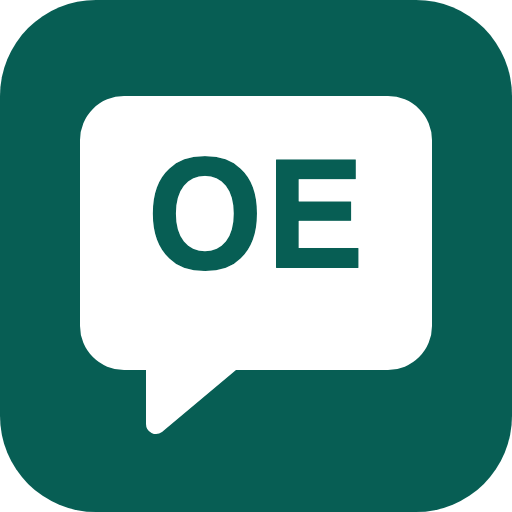
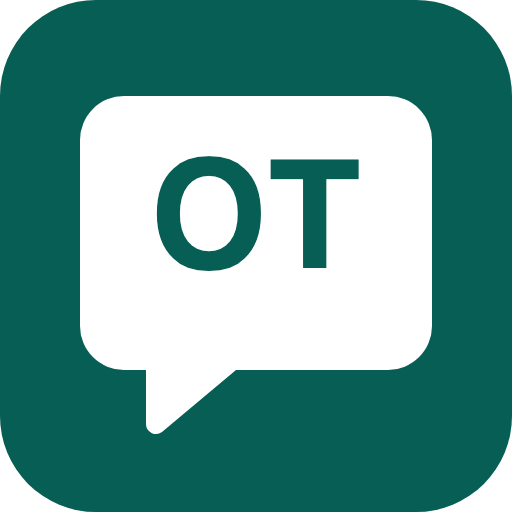
refactor: OpenEd pasa a llamarse OpenTeacher en UI, prompts, iconos y docs

diff --git a/app/aula/page.tsx b/app/aula/page.tsx
@@ -76,13 +76,13 @@ function Encabezado() {
   return (
     <header className="mb-8 border-b border-[#22323a] pb-6">
       <p className="mb-2 text-[12px] font-semibold uppercase tracking-[0.14em] text-[#4db6a4]">
-        OpenEd
+        OpenTeacher
       </p>
       <h1 className="text-[28px] font-semibold leading-tight tracking-tight sm:text-[34px]">
         Grabación de aula
       </h1>
       <p className="mt-2 max-w-[38rem] text-[15px] leading-relaxed text-[#9fb0b9]">
-        Graba la clase completa y OpenEd extrae las incidencias solo. La docente
+        Graba la clase completa y OpenTeacher extrae las incidencias solo. La docente
         no tiene que reportar nada ni acordarse de nada al final del día.
       </p>
     </header>
@@ -177,7 +177,7 @@ function Declaracion() {
   const filas = [
     ["Qué se graba", "El audio del aula durante la clase. Solo audio, nunca video ni imagen."],
     ["Para qué", "Detectar incidencias de convivencia y devolverle a la docente un reporte por alumno y por aula."],
-    ["Dónde queda", "En este dispositivo. El audio no se sube a ningún servidor de OpenEd."],
+    ["Dónde queda", "En este dispositivo. El audio no se sube a ningún servidor de OpenTeacher."],
     ["Cuánto se guarda", "Hasta que se borre. Hay un botón de borrar siempre a la mano y borra el audio junto con la sesión."],
     ["Quién lo ve", "La docente que graba y quien ella decida. Nadie más tiene acceso."],
     ["Qué NO se hace", "No se identifica a ningún estudiante por su voz ni se le pone nombre a quien habla."],

diff --git a/lib/mockData.ts b/lib/mockData.ts
@@ -1,5 +1,5 @@
 /**
- * Datos pre-generados para la demo de OpenEd.
+ * Datos pre-generados para la demo de OpenTeacher.
  *
  * PLAN B: el simulador de chat en app/page.tsx corre SOLO con esto.
  * Ni una llamada de red. Si el WhatsApp real falla en el escenario,
@@ -35,9 +35,9 @@ export interface Mensaje {
 }
 
 export const CONTACTO = {
-  nombre: "OpenEd",
+  nombre: "OpenTeacher",
   estado: "en línea",
-  iniciales: "OE",
+  iniciales: "OT",
 };
 
 /**
@@ -53,7 +53,7 @@ export const CONVERSACION_DEMO: Mensaje[] = [
     id: "m1",
     de: "opened",
     texto:
-      "Hola profe. Soy OpenEd. Cuénteme qué pasó en el aula, escribiendo o con un audio. Le respondo qué hacer ahora y le dejo el registro escrito para dirección y para la reunión con el padre.\n\nNo soy psicóloga, y esto no reemplaza el Libro de Incidencias ni el SíseVe.",
+      "Hola profe. Soy OpenTeacher. Cuénteme qué pasó en el aula, escribiendo o con un audio. Le respondo qué hacer ahora y le dejo el registro escrito para dirección y para la reunión con el padre.\n\nNo soy psicóloga, y esto no reemplaza el Libro de Incidencias ni el SíseVe.",
     hora: "10:02",
   },
 ];

diff --git a/lib/prompts.ts b/lib/prompts.ts
@@ -1,5 +1,5 @@
 /**
- * Prompt maestro de OpenEd y el esquema de la herramienta.
+ * Prompt maestro de OpenTeacher y el esquema de la herramienta.
  *
  * UNA SOLA LLAMADA con tool_choice forzado devuelve la prosa de contencion Y
  * el triage estructurado. No se hacen dos llamadas: duplica latencia, duplica
@@ -39,7 +39,7 @@ import { CLAVES_NORMA, NORMA } from "./norma";
 export const MOMENTOS = ["en_caliente", "en_frio", "preventivo"] as const;
 export type Momento = (typeof MOMENTOS)[number];
 
-const BASE_SISTEMA = `Eres OpenEd. Escribes con docentes de aula en Peru, en un chat que se ve
+const BASE_SISTEMA = `Eres OpenTeacher. Escribes con docentes de aula en Peru, en un chat que se ve
 como WhatsApp. Eres una colega auxiliar con anios de pasillo: directa,
 calida, sin floro. NO eres chatbot corporativo ni coach de superacion.
 

diff --git a/app/manifest.ts b/app/manifest.ts
@@ -1,15 +1,15 @@
 import type { MetadataRoute } from "next";
 
 /**
- * Manifest de la PWA. Permite instalar OpenEd en el telefono desde el
+ * Manifest de la PWA. Permite instalar OpenTeacher en el telefono desde el
  * navegador, sin app nativa y sin tienda: se abre a pantalla completa,
  * con su icono, y el microfono funciona igual porque produccion es https.
  */
 export default function manifest(): MetadataRoute.Manifest {
   return {
     id: "/",
-    name: "OpenEd",
-    short_name: "OpenEd",
+    name: "OpenTeacher",
+    short_name: "OpenTeacher",
     description:
       "Contención inmediata y registro de incidencias de aula para docentes peruanos.",
     lang: "es-PE",

diff --git a/app/layout.tsx b/app/layout.tsx
@@ -2,7 +2,7 @@ import type { Metadata, Viewport } from "next";
 import "./globals.css";
 
 export const metadata: Metadata = {
-  title: "OpenEd",
+  title: "OpenTeacher",
   description:
     "Agente de WhatsApp para docentes peruanos. Contención inmediata y registro de incidencias de aula.",
   // iOS ignora los iconos del manifest para la pantalla de inicio y usa
@@ -10,7 +10,7 @@ export const metadata: Metadata = {
   // sale con una captura de la pagina en vez del icono.
   appleWebApp: {
     capable: true,
-    title: "OpenEd",
+    title: "OpenTeacher",
     statusBarStyle: "black-translucent",
   },
 };

diff --git a/lib/norma.check.ts b/lib/norma.check.ts
@@ -1,8 +1,8 @@
 /**
  * Check de la tabla normativa. Corre con `npm run check`.
  *
- * Esta tabla es lo unico que separa "OpenEd conoce la norma peruana" de
- * "OpenEd invento un numero delante de cuatro docentes". Un comentario
+ * Esta tabla es lo unico que separa "OpenTeacher conoce la norma peruana" de
+ * "OpenTeacher invento un numero delante de cuatro docentes". Un comentario
  * pidiendo cuidado no sobrevive a las ultimas dos horas antes de un pitch.
  * Un check que falla, si.
  *

diff --git a/app/page.tsx b/app/page.tsx
@@ -424,7 +424,7 @@ function Checks() {
 
 function Escribiendo() {
   return (
-    <li className="flex justify-start" aria-label="OpenEd está escribiendo">
+    <li className="flex justify-start" aria-label="OpenTeacher está escribiendo">
       <span className="flex gap-1.5 rounded-xl rounded-tl-none bg-[var(--wa-burbuja-otra)] px-4 py-3.5 shadow-sm">
         {[0, 150, 300].map((retraso) => (
           <span

diff --git a/components/FichaNorma.tsx b/components/FichaNorma.tsx
@@ -1,7 +1,7 @@
 "use client";
 
 /**
- * FichaNorma. La tarjeta que hace VISIBLE lo que OpenEd sabe de la norma.
+ * FichaNorma. La tarjeta que hace VISIBLE lo que OpenTeacher sabe de la norma.
  *
  * Es lo unico en pantalla que responde la pregunta del jurado, "esto no es
  * un prompt sobre ChatGPT". Por eso todo el contenido sale de lib/norma.ts,

diff --git a/app/globals.css b/app/globals.css
@@ -1,7 +1,7 @@
 @import "tailwindcss";
 
 /*
- * OpenEd. La paleta esta clavada a la de WhatsApp a proposito:
+ * OpenTeacher. La paleta esta clavada a la de WhatsApp a proposito:
  * el simulador tiene que leerse como WhatsApp en un proyector,
  * asi que no sigue el tema del sistema. Un solo look, siempre igual.
  */

diff --git a/lib/norma.ts b/lib/norma.ts
@@ -1,5 +1,5 @@
 /**
- * Tabla normativa de OpenEd. RM 383-2025-MINEDU, Anexo 03.
+ * Tabla normativa de OpenTeacher. RM 383-2025-MINEDU, Anexo 03.
  *
  * REGLA DE LA CASA, la mas importante de este archivo:
  * **el modelo tiene PROHIBIDO escribir digitos de normas.**

diff --git a/lib/agents.ts b/lib/agents.ts
@@ -1,5 +1,5 @@
 /**
- * El agente de contencion de OpenEd.
+ * El agente de contencion de OpenTeacher.
  *
  * UNA sola llamada con tool_choice forzado. Devuelve la prosa para la docente
  * y el triage estructurado juntos.

diff --git a/lib/claude.ts b/lib/claude.ts
@@ -1,5 +1,5 @@
 /**
- * Wrapper del Anthropic SDK para OpenEd.
+ * Wrapper del Anthropic SDK para OpenTeacher.
  *
  * Dos modos:
  *   - REAL: usa @anthropic-ai/sdk con ANTHROPIC_API_KEY.
